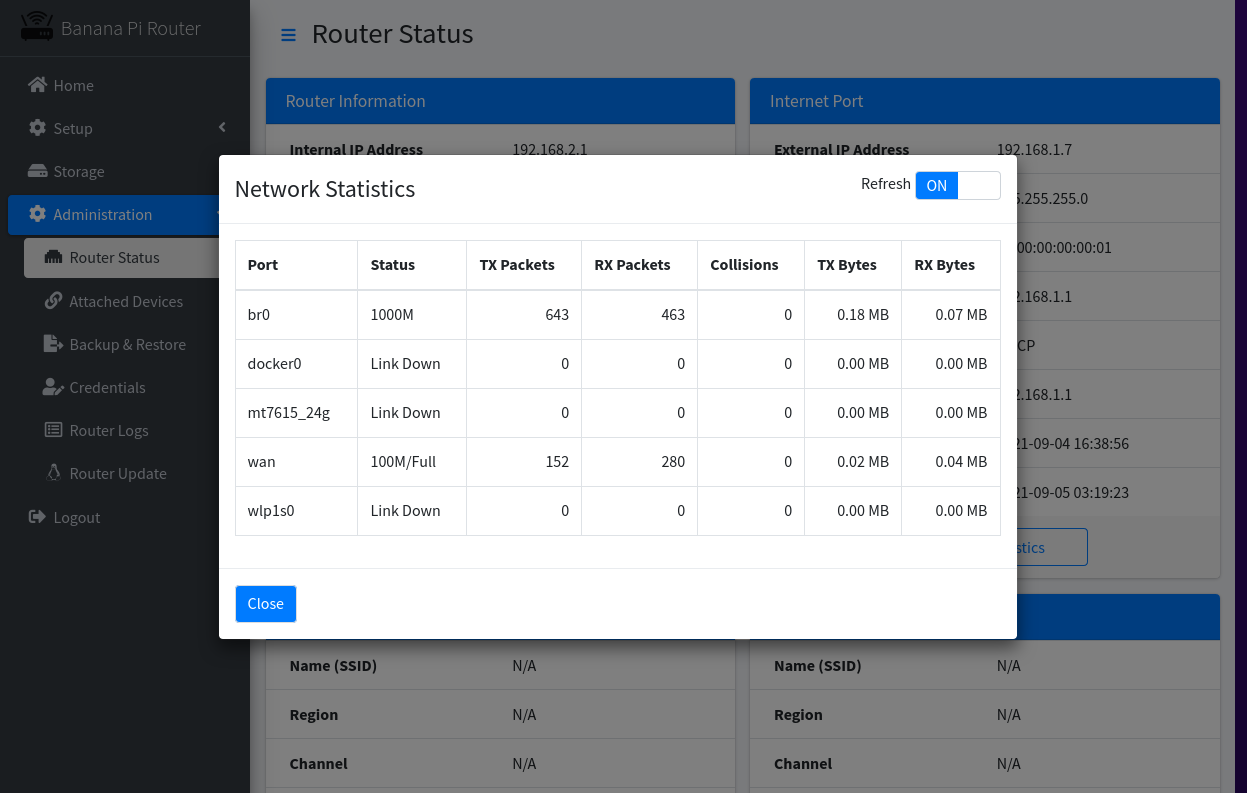
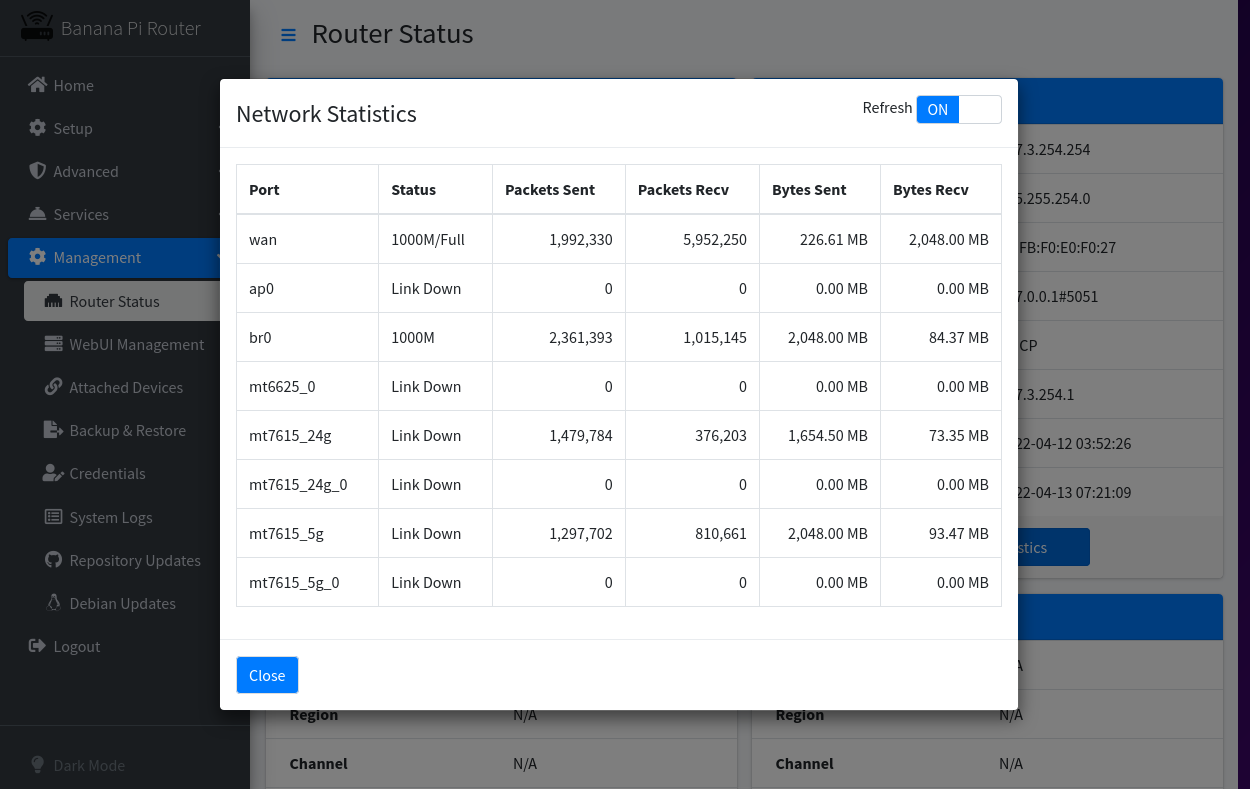
WebUI Changes for mobile friendliness

diff --git a/router/includes/setup-dns.php b/router/includes/setup-dns.php
@@ -103,6 +103,7 @@ echo '
 			</div>
 			<div class="col-sm-6">
 				<div class="form-group">
+					<label>Select DNS Servers:</label>
 					<select class="provider form-control', !$use_provider ? ' hidden' : '', '" id="select_provider">';
 foreach ($providers as $provider)
 	echo '
@@ -123,16 +124,12 @@ echo '
 				<div class="col-sm-6">
 					<label for="ip_address">Primary DNS Server</label>
 				</div>
-				<div class="col-sm-4">
+				<div class="col-sm-6">
 					<div class="input-group">
 						<div class="input-group-prepend">
 							<span class="input-group-text"><i class="fas fa-laptop"></i></span>
 						</div>
 						<input id="dns1" type="text" placeholder="127.0.0.1" class="dns_address form-control" value="', explode("#", $primary . "#")[0], '"', !$use_isp ? ' disabled="disabled"' : '', '>
-					</div>
-				</div>
-				<div class="col-sm-2">
-					<div class="input-group">
 						<div class="input-group-prepend">
 							<span class="input-group-text" title="Port Number"><i class="fas fa-hashtag"></i></span>
 						</div>
@@ -144,16 +141,12 @@ echo '
 				<div class="col-sm-6">
 					<label for="ip_address">Secondary DNS Server</label>
 				</div>
-				<div class="col-sm-4">
+				<div class="col-sm-6">
 					<div class="input-group">
 						<div class="input-group-prepend">
 							<span class="input-group-text"><i class="fas fa-laptop"></i></span>
 						</div>
 						<input id="dns2" type="text" placeholder="127.0.0.1" class="dns_address form-control" value="', explode("#", $secondary . "#")[0], '"', !$use_isp ? ' disabled="disabled"' : '', '>
-					</div>
-				</div>
-				<div class="col-sm-2">
-					<div class="input-group">
 						<div class="input-group-prepend">
 							<span class="input-group-text" title="Port Number"><i class="fas fa-hashtag"></i></span>
 						</div>

diff --git a/router/includes/manage-status.php b/router/includes/manage-status.php
@@ -51,11 +51,10 @@ if (isset($_POST['action']))
 				'<tr>',
 					'<th>Port</th>',
 					'<th>Status</th>',
-					'<th>TX Packets</th>',
-					'<th>RX Packets</th>',
-					'<th>Collisions</th>',
-					'<th>TX Bytes</th>',
-					'<th>RX Bytes</th>',
+					'<th>Packets Sent</th>',
+					'<th>Packets Recv</th>',
+					'<th>Bytes Sent</th>',
+					'<th>Bytes Recv</th>',
 				'</tr>',
 			'</thead>',
 			'<tbody>';
@@ -79,7 +78,6 @@ if (isset($_POST['action']))
 						'<td>', $status, '</td>',
 						'<td><span class="float-right">', number_format((int) @file_get_contents($SYS . $name . '/statistics/tx_packets')), '</span></td>',
 						'<td><span class="float-right">', number_format((int) @file_get_contents($SYS . $name . '/statistics/rx_packets')), '</span></td>',
-						'<td><span class="float-right">', number_format((int) @file_get_contents($SYS . $name . '/statistics/collisions')), '</span></td>',
 						'<td><span class="float-right">', number_format((int) @file_get_contents($SYS . $name . '/statistics/tx_bytes') / 1024 / 1024, 2), ' MB</span></td>',
 						'<td><span class="float-right">', number_format((int) @file_get_contents($SYS . $name . '/statistics/rx_bytes') / 1024 / 1024, 2), ' MB</span></td>',
 					'</tr>';

diff --git a/router/includes/services-notify.php b/router/includes/services-notify.php
@@ -41,23 +41,19 @@ echo '
 		<h3 class="card-title">Mosquitto</h3>
 	</div>
 	<div class="card-body">
-		', checkbox("enable_mosquitto", "Notify Mosquitto server when DHCP clients connect or disconnect"), '
+		', checkbox("enable_mosquitto", "Send DHCP notifications to Mosquitto server"), '
 		<div id="mosquitto_options"', $options['enable_mosquitto'] == "N" ? ' class="hidden"' : '', '>
 			<hr style="border-width: 2px" />
 			<div class="row">
 				<div class="col-sm-6">
 					<label for="ip_address">Mosquitto Server Address:</label>
 				</div>
-				<div class="col-sm-4">
+				<div class="col-sm-6">
 					<div class="input-group">
 						<div class="input-group-prepend">
 							<span class="input-group-text"><i class="fas fa-server"></i></span>
 						</div>
 						<input id="ip_addr" type="text" placeholder="127.0.0.1" class="ip_address form-control" placeholder="127.0.0.1" value="', $options['mosquitto_addr'], '">
-					</div>
-				</div>
-				<div class="col-sm-2">
-					<div class="input-group">
 						<div class="input-group-prepend">
 							<span class="input-group-text" title="Port Number"><i class="fas fa-hashtag"></i></span>
 						</div>

diff --git a/router/includes/services-upnp.php b/router/includes/services-upnp.php
@@ -105,7 +105,7 @@ echo '
 			<div class="col-sm-6">
 				<label for="listening_on">Listening Interfaces:</label>
 			</div>
-			<div class="col-3">
+			<div class="col-sm-3">
 				<select class="form-control" id="listening_on" multiple>';
 foreach ($valid_listen as $tface)
 {
@@ -120,7 +120,7 @@ echo '
 			<div class="col-sm-6">
 				<label for="ext_ifname">External Interface:</label>
 			</div>
-			<div class="col-3">
+			<div class="col-sm-3">
 				<select class="form-control" id="ext_ifname">';
 $listening = explode(" ", $options['listening_ip']);
 foreach ($ext_ifaces as $tface)

diff --git a/router/includes/manage-repo.php b/router/includes/manage-repo.php
@@ -66,8 +66,8 @@ function show_repo($title, $repo, $url, $alt_desc = null)
 				<div class="card-body table-responsive p-0" id="', $repo, '_div">
 					<table class="table">
 						<tr>
-							<td width="50%"><strong>Current Version</strong></td>
-							<td>v<span id="', $repo, '_current">', $_SESSION[$repo . '_version'], '</span></td>
+							<td width="40%"><strong>Current Version</strong></td>
+							<td width="60%">v<span id="', $repo, '_current">', $_SESSION[$repo . '_version'], '</span></td>
 						</tr>
 						<tr>
 							<td><strong>Latest Version</strong></td>
